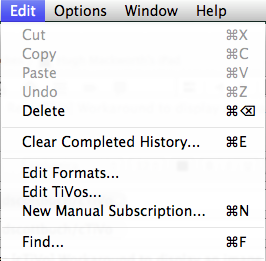
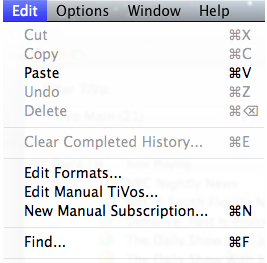
Merge of FixWiki branch

Changed region(s): [[0.0, 0.0, 1.0, 1.0], [0.8421, 0.7663, 0.9624, 0.8276]]

diff --git a/wiki/Advanced-Topics.md b/wiki/Advanced-Topics.md
@@ -5,39 +5,22 @@ This document is to cover some interesting topics that are intended for advanced
 
 Sections:  
 
-- [Artwork](#artwork)
 - [Manual TiVos](#manual-tivos)
 - [Edit Formats](#edit=formats)
+- [Artwork](#artwork)
 - [Advanced Settings](#advanced-settings)
 - [theTVDB](#thetvdb)
 - [Advanced Subscriptions ](#advanced-subscriptions)
 - [Log Files ](#log-files)
 - [Filename Templates](#filename-templates)
 
-# Artwork
-
-For MPEG files (.MPG, .MP4, .MOV, or .M4V), cTivo can embed a still picture inside the file to represent it in iTunes, iOS devices, or other players that understand this standard. By default, this picture is one of the first frames of the video, but you have many choices available. First, in Preferences, you can specify that all videos should have the same cTiVo icon, representing that it came from your TiVo. Secondly, in Preferences, you can enable cTiVo retrieving fan-generated, episode-specific artwork from theTVDB.com (although this is dependent on the series/episode being in the database). See [theTVDB](#thetvdb) below for more information. Third, you can create a "thumbnails" directory in your download folder containing artwork that is added to episodes as they are generated. These files can be in almost any format supported by the OS, but the filename has to be in a specific syntax.
-
-The filename must start with the series title (e.g. "The Daily Show with Jon Stewart") with any slashes or colons replaced with dashes. Then you can create a series-generic file (no suffix), a season-specific file (suffix of Snn, or an episode-specific file (suffix of SnnEnn). 
-
-These local files can be stored in the download directory itself or in a "thumbnails" subdirectory of the download directory. If you have enabled series-specific subdirectories within the download directory, they can also be in that directory, or in a "thumbnails" subdirectory of that subdirectory. 
-
-To give as much control to you as possible, if more than one of these artwork types are available, it will use the first one it finds in the following order:
-
-- Local episode-specific (SnnEnn)
-- theTVDB artwork (if enabled and available)
-- Local season-specific (S00)
-- Local series-generic
-- cTiVo icon (if enabled)
-- Initial frame from video
-
 # Manual TiVos
 
-Normally, cTiVo discovers TiVos on the local network automatically using a network technology called BonJour. Normally this will work fine, but if you need to enter a TiVo address manually or wish to access your TiVos remotely, you'll need to enter their information here. Simply use the Edit>Edit TiVos menu item. This will show any TiVos you've previously entered. Use the + button to add a new one, or the - button to delete one. If you'd like to temporarily delete one, just uncheck the "Enabled" button. You can get the TiVo's current local IP address from its Networks and Settings screen, although this may change over time, especially when your TiVo is restarted. For the local network, you should always use the ports provided (80/443). You can also disable any BonJour TiVos you don't want to interact with here as well, or change their Media Keys if needed.
+Normally, cTiVo discovers TiVos on the local network automatically using a network technology called BonJour. Normally this will work fine, but if you need to enter a TiVo address manually or wish to access your TiVos remotely, you'll need to enter their information here. Simply use the Edit>Edit Manual TiVos menu item. This will show any TiVos you've previously entered. Use the + button to add a new one, or the - button to delete one. If you'd like to temporarily delete one, just uncheck the "Enabled" button. You can get the TiVo's current local IP address from its Networks and Settings screen, although this may change over time, especially when your TiVo is restarted. For the local network, you should always use the ports provided (80/443)
 
 ![](Images/cTiVoManualTivosScreen.png)
 
-Interestingly, you may also be able to use cTiVo remotely, although this can take considerable network ability and patience.  Patience both in the sense of trial and error as well as in the upload bandwidth available on your connection to the Internet. You will need to set your router to pass external accesses to your main IP address through to your TiVo. As you may be doing this for other devices as well, we also let you adjust the ports cTiVo uses to match whatever port mapping you're doing in your router.  If you didn't understand this paragraph so far, then you probably need to find someone that does to help you. Note that whether this violates your terms of service with your cable company, TiVo Inc, your internet provider, any random film studio in Hollywood, or anybody else is entirely up to you. 
+Interestingly, you may also be able to use cTiVo remotely, although this can take considerable network ability and patience.  Patience both in the sense of trial and error as well as in the upload bandwidth available on your connection to the Internet. You will need to set your router to pass external accesses to your main IP address through to your TiVo. As you may be doing this for other devices as well, we also let you adjust the ports cTiVo uses to match whatever port mapping you're doing in your router.  If you didn't understand this paragraph so far, then you probably shouldn't be doing this. Note that whether this violates your terms of service with your cable company, TiVo Inc, your internet provider, any random film studio in Hollywood, or anybody else is entirely up to you. 
 
 # Edit Formats
 
@@ -55,14 +38,14 @@ If you'd like to configure a different video encoder, or provide different param
 - **Input Filename/Output Filename/Edit List Switch:** these are passed in the command line to the encoder (see [Arguments](#arguments)
 - **Encoder to Use**: See [Encoder To Use](#encoder-to-use)
 - **Regex for Encoder Log**: If the encoder cannot support simultaneous encoding (e.g. HandBrakeCLI), the encoder should provide in its standard output the percentage complete as a number from 0-100.  You will need to provide a regex expression for extracting this number from the last few lines of the standard output.  For example, HandBrakeCLI writes its progress as 87 %, so the regex is `([\%` This will only be used when doing sequential downloading, decrypting, and encoding.  When doing simultaneous encoding, the data flow through the pipes is used to measure progress.
-- **Video/Audio/Other Options for Encoder:** These are passed on the command line to the encoder; see [Arguments](#arguments).
+- **Video/Audio/Other Options for Encoder:** These are passed on the command line to the encoder; see [Arguments](arguments).
 - **Comskip Options**: ComSkip is an experimental feature for cTiVo; See [the comskip project](http://www.kaashoek.com/comskip/). Included in this implementation is a configuration file (comskip.ini), which can be found on the [cTivo  source code page](../cTiVo/comskip.ini). In addition to other command line parameters, you can replace the built-in comskip.ini with your own comskip.ini file by entering "--ini=\<full path\>/comskip.ini" providing the full path to your own file.
 - **ccExtractor Options**: ccExtractor exports subtitles from the video stream into a .srt text file. See  [the ccExtractor project](http://ccextractor.sourceforge.net/using-ccextractor/command-line-usage.html)
 - **Can run download and encode at same time** should be set only if the encoder can run as a final stage of a pipeline (stdin being the source pipe).
 
-- **Can be added to iTunes** means that the file format generated is compatible with iTunes, and will simply enable or disable that option for the user.
+ - **Can be added to iTunes** means that the file format generated is compatible with iTunes, and will simply enable or disable that option for the user.
 
-- **Can Skip Commercials** means whether to enable that option for the user. If enabled, the encoder must handle the edl as generated by comSkip.
+ - **Can Skip Commercials** means whether to enable that option for the user. If enabled, the encoder must handle the edl as generated by comSkip.
 
 ## Encoder to Use
 
@@ -105,49 +88,64 @@ OR, if no outputFileFlag:
 ```` 
 If you are debugging a format, you can use the advance preferences to increase the debugging level. See [Log Files](#log-files) below for more information. You can also set the "Don't Delete tmp files" option, which will save the subsidiary program log files (from your encoder, comskip, etc) for your perusal. Be sure to set it back when finished debugging as it will generate massive temp files.
 
+# Artwork
+
+For MPEG files (.MPG, .MP4, .MOV, or .M4V), cTivo can embed a still picture inside the file to represent it in iTunes, iOS devices, or other players that understand this standard. By default, this picture is one of the first frames of the video, but you have many choices available. First, in Preferences, you can specify that all videos should have the same cTiVo icon, representing that it came from your TiVo. Secondly, in Preferences, you can enable cTiVo retrieving fan-generated, episode-specific artwork from theTVDB.com (although this is dependent on the series/episode being in the database). Third, you can create a "thumbnails" directory in your download folder containing artwork that is added to episodes as they are generated. These files can be in almost any format supported by the OS, but the filename has to be in a specific syntax.
+
+The filename must start with the series title (e.g. "The Daily Show with Jon Stewart") with any slashes or colons replaced with dashes. Then you can create a series-generic file (no suffix), a season-specific file (suffix of Snn, or an episode-specific file (suffix of SnnEnn). 
+
+These local files can be stored in the download directory itself or in a "thumbnails" subdirectory of the download directory. If you have enabled series-specific subdirectories within the download directory, they can also be in that directory, or in a "thumbnails" subdirectory of that subdirectory. 
+To give as much control to you as possible, if more than one of these artwork types are available, it will use the first one it finds in the following order:
+
+- Local episode-specific (SnnEnn)
+- theTVDB artwork (if enabled and available)
+- Local season-specific (S00)
+- Local series-generic
+- cTiVo icon (if enabled)
+- Initial frame from video
+
 # Advanced Settings
 
 There are a few preferences that are intended for debugging purposes or for very advanced users only. These are hidden, but can be activated by holding down the Option key while pulling down the cTiVo menu and selecting Adv Preferences (alternatively Option-Cmd-Comma). 
 
 ![](Images/cTivoAdvancedPreferencesScreen.png)
 
-### Debug Levels
+## Debug Levels
+
 This will increase the level of detail written to the Console log from major events to verbose. As "verbose" is indeed very verbose, you can also set the debug level separately for each of the major modules in the program. This would mainly be of use while reading the source code or under the direction of someone helping you debug a problem. 
 
-### Disable Drag to Select in UI
+## Disable Drag to Select in UI
+
 OSX has an inconsistency of what "click on a filename and drag across multiple files" means.  This can either mean "drag the first file", or "select multiple files". Our default is the latter, but you can change it with this option.
 
-### Don't Delete tmp Files
+## Don't Delete tmp Files
+
 During its processing, cTiVo creates several intermediate files, which are deleted upon completion. The video files are typically in the download directory, and the others (sub-program log files, etc) are in the /tmp/cTiVo/ directory. For debugging purposes, this option lets you turn off the automatic deletion. Setting this option can burn up your hard drive very quickly, so be sure to disable after debugging.
 
-### Download Retries
+## Download Retries
+
 If cTivo encounters a failure (network not available, encoder problem, etc), it will retry automatically. This option lets you change the number of times it retries before giving up entirely; default is 3.
 
-### Don't use memory buffer for downloads
+## Don't use memory buffer for downloads
+
 For performance reasons, cTiVo will normally download the TiVo file into memory rather than writing it to a temporary file. Sometimes for debugging purposes, it's convenient to have it write these files directly to disk, and this option enables that.
 
-### TiVo Refresh Rate
+## TiVo Refresh Rate
+
 How often (in minutes) should cTivo check the Now Playing list of your TiVos
 
-### Temporary Files Directory
+## Temporary Files Directory
 While the video files are stored in the download directory, during processing many other files are stored in a working directory. By default this is in /tmp/ctivo, and is emptied as each transaction is finished and when cTivo starts up. You can change this directory here.
 
-###Filename Template
-See [Filename Templates](#filename-templates) for more information.
+## View TVDB Stats
 
-### Keywords
-This control will insert keywords into the Filename Template field to make it easier to build.
+Displays the results of theTVDB lookups since cTiVo has started, or since an Empty Cache command. See [below for more on interpreting this information.
 
-### View TVDB Stats
-Displays the results of theTVDB lookups since cTiVo has started, or since an Empty Cache command. See [theTVDB](#thetvdb) below for more on interpreting this information.
+## Empty Cache
 
-### Empty Cache
-Empty Cache erases the caches stored in the program and reloads the information contained. The two caches are theTVDB information and the detailed XML loaded from the !TiVo for each show. If you think something is wrong with the information being displayed, this might be useful, but more important is to reset theTVDB statistics to go directly to the source. See [theTVDB](#thetvdb) below for more information.
+Empty Cache erases the caches stored in the program and reloads the information contained. The two caches are theTVDB information and the detailed XML loaded from the !TiVo for each show. If you think something is wrong with the information being displayed this might be useful, but more important is to reset theTVDB statistics to go directly to the source. See [theTVDB](theTVDB]) below for more information.
 
-### Module Debug Levels
-The remaining controls let you set debug levels for each individual module.  
-
-# TheTVDB
+## TheTVDB
 
 For some reason, TiVo has recently not been filling in the season/episode information on many shows. Oddly, this information may be available in the user interface, but not delivered to cTiVo. We attempt to work around this by accessing theTVDB.com and looking up an episode to fill in the season/episode information or to get access to the fan-generated artwork available there. Fair warning: the following paragraphs on how this all works may be more information that you want!
 
@@ -323,7 +321,7 @@ And you can put these together:
 	==>`The Big Bang Theory/Season 07/The Big Bang Theory - S07E01 - The Hofstadter Insufficiency.mp4`
 	==>`Movies/Machete (2010)`
 
-###A few final notes on filename templates
+##A couple of final notes:
 * Capitalization is irrelevant in keywords. 
 * Quotes are not allowed inside quotes.
 * Brackets cannot be used as text.

diff --git a/wiki/Configuration.md b/wiki/Configuration.md
@@ -8,7 +8,6 @@ The two most important configuration parameters are on top of the screen: the vi
 ## Options
 
 In addition to the Format/Download directory choices above, you can set many other options. The "Options" menu lets you set many of the download parameters quickly. These can also be set in the "Preferences" screen. Note that these options apply to any new downloads/subscriptions, but once it's in the queue, or subscribed, you can change these options and not affect ones in progress.
-
 ![](Images/cTiVoOptionsMenu.png)
 
 These are grouped in two main groups: the Recording/Metadata handling options which apply to each individual download and the General settings that apply to the entire program:
@@ -16,28 +15,25 @@ These are grouped in two main groups: the Recording/Metadata handling options wh
 ### Recordings Preferences
 
 These are options that affect the individual downloads. Each of these can also be set/changed for each individual download or subscription
-- **Mark Commercials** means after downloading, run a program called "comskip" that attempts to find commercials in your shows. This process is dependent on a wide variety of parameters, so some find this a great feature, some find it frustrating as it may miss some commercials . Note that the current version of comskip can also fail entirely on certain recordings; when this happens, cTiVo will provide an alert, but continue other processing of the download. Rather than deleting commericals (like Skip Commercials below), Marking will instead add chapter information to your shows, so that you can easily skip over commercials in your player. Thus if comskip makes a mistake, you can simply back up. Also, marking commercials can be done in conjunction with any encoder, as long as output file type is MPEG-compatible (.MPG, .MP4, .MOV, or .M4V). Enabling this option will automatically disable Skip Commercials.
-- **Skip Commercials** also uses comskip, but it will remove the marked commercials entirely. However, if comskip makes a mistake, this may even delete program material. Note also that skipping commercials can only be done with the "mencoder" encoder. Enabling this option will automatically disable Mark Commercials. More information at [comskip's website](http://www.kaashoek.com/comskip).
-- **Add to iTunes When Complete** will launch iTunes and add the video and its metadata to your library. See [Subscriptions](Subscriptions.md) for more information on settting this up.
-
+- **Skip Commercials** means after downloading, run a program called "comskip" that attempts to remove commercials from your shows. This process is dependent on a wide variety of parameters, so some find this a great feature, some find it frustrating as it may miss some commercials or even delete program material accidentally. Note that the current version of comskip can also fail entirely on certain recordings; when this happens, cTiVo will provide an alert, but continue other processing of the download. Note also that skipping commercials can only be done with the "mencoder" encoder. More information at [comskip's website](http://www.kaashoek.com/comskip).
+- **Mark Commercials** still uses comskip, but will instead add chapter information to your shows, so that you can easily skip over commercials in your player. Thus if comskip makes a mistake, you can simply back up. Also, marking commercials can be done in conjunction with any encoder, as long as output file type is MPEG-compatible (.MPG, .MP4, .MOV, or .M4V). Enabling this option will automatically disable Skip Commercials and vice-versa.
+- **Add to iTunes When Complete** will launch iTunes and add the video and its metadata to your library. See [Subscriptions](Subscriptions.md) for more information.
 ### Metadata Handling Preferences
 
 Metadata is the information that TiVo provides about the video, such as Series name, episode number, recording date, etc. cTiVo can deliver that information in a variety of ways depending on what you would like to then do with it. Again, each of these can be set/changed for each individual download or subscription.
 - **Export Subtitles** (*Handle Captions* in Preferences) extracts any captions or subtitles from the video file before encoding and stores them in a standard .SRT format. If the output file is MPEG-compatible, it will also store them inside the file for a viewer to use.
 - **Export Metadata to pyTivo** will save the metadata in a .TXT as defined by the [pyTiVo program](http://pytivo.sourceforge.net/wiki/index.php/PyTivo) (which lets your Mac act as a TiVo server over the network). This allows the information to go on a round-trip to your TiVo.
-
 ### General Settings
 
-The followiing are preferences that apply to the operation of the entire program, not individual downloads. These are also available in the Preferences screen.
+These are the preferences that apply to the operation of the entire program, not individual downloads. These are also available in the Preferences screen.
 - **Disable sleep** does what it says. It will attempt to delay the Mac's sleep until processing is complete. It is strongly recommended not to use this option while on battery power. Note that it will not override a "hard sleep", such as low power or closing the lid on a MacBook.
 - **Show Protected Shows** will display those shows that are marked as "copy-protected" on the TiVo. See [I have shows on my TiVo that are not listed on cTiVo!](FAQ) These shows cannot be downloaded, but for completeness, you may see them if you wish.
 - **Show TiVo Suggestions** TiVos will record shows that it thinks you may like. This option lets you see, or not see, those shows as you wish. Note that each subscription also has the same option.
 - **Create Sub-folders for Series** will create separate named folders within your Download Folder for each series you download or subscribe to.
 - **Sync iTunes Devices** will ask iTunes to start a device sync after cTivo has loaded a new show. If your devices are set to automatically load the latest videos, this will ensure that your shows are available on your devices as soon as possible.
-
 ### Settings in Preferences screen
 
-![](Images/cTivoPreferencesScreen.png)
+![](Images/cTivoAdvancedPreferencesScreen.png)
 
 These are in addition to the ones that are also in the Options menu above.
 - **Warn if Quitting during download** is just a user preference. Some folks don't like warning messages when quitting. However, if you quit during a download or encoding, you will lose any work done on that download, and cTiVo will have to restart the job when it is next run. If you enable the warning, we will give you the option to finish the current job before then quitting.
@@ -46,12 +42,10 @@ These are in addition to the ones that are also in the Options menu above.
 - **Delete file after copying into iTunes** If you have enabled "Add to iTunes When Completed", and iTunes is set to copy files into its own directory, then cTiVo will normally delete the duplicate file unless you clear this option.
 - **Use cTiVo logo for video file** cTiVo can attach an image to represent the video file. Normally a random frame near the beginning of the program is chosen; if you'd like all your TiVo video files to have the same icon, you can set this setting.
 - **Get artwork from TheTVDB** will attempt to download episode-specific images chosen by fans on TheTVDB website for the shows you are downloading. If you'd rather use series or season-specific artwork, see [Advanced Topics](Advanced-Topics.md#Artwork).
-
 ## Available Columns
 
 By right-clicking onto the column headers of the three tables, you can hide or show any information you like. Clicking on a column header will sort the table by that column.  Here's a list of the available columns:
-
-### Now Playing Columns
+## Now Playing Columns
 
 - **TiVo**:  Which TiVo this show is recorded on.
 - **Que'd**: Whether this show is currently in the download table. (Note that shows are boldfaced if the successfully downloaded video file is still available on the drive).
@@ -71,7 +65,7 @@ By right-clicking onto the column headers of the three tables, you can hide or s
 - **TiVo ID**: a unique number for each show that identifies it to the TiVo.
 - **Status**: The TiVo icons that indicate how soon a show will be deleted. Will also show the TiVo logo for suggested shows, a red C for copy-protected, a blue ? when cTivo doesn't know the status yet, or a red X when the show has been deleted from the TiVo.
 
-### Download Table Columns
+## Download Table Columns
 
 (Many of the Now Playing columns are also available here to identify which show is being downloaded)
 - **##**: The position in the download queue. Shows with smaller numbers are downloaded first, although two TiVos can download simultaneously.
@@ -82,8 +76,7 @@ By right-clicking onto the column headers of the three tables, you can hide or s
 - **Skip**: Will this show have its commercials removed?
 - **Subtitles**: Should cTiVo generate subtitles for this show?
 - **pyTiVo**: Will this show have its metadata exported for use by pyTiVo?
-
-### Subscription Table Columns
+## Subscription Table Columns
 
 In addition to the Format/iTunes/Mark/Skp/Subtitles/pyTivo columns as above (which are simply copied into the download table item when a subscription is triggered), the subscription table has the following columns:
 - **Subscriptions**: The show name subscribed to.

diff --git a/wiki/FAQ.md b/wiki/FAQ.md
@@ -16,21 +16,19 @@ Some formats are not intended for playing on your computer, and Quicktime is una
    See Edit Video Formats in [Advanced Topics](Advanced-Topics.md) 
 ###What does the column "Tivo Status" mean?
 These are the icons displayed by TiVo on its NowPlaying status along with a couple we've added for clarity. 
-<!-- The following should use Markdown img refs ()[Images/xyz.png], but github has an odd bug -->
-<!-- Same with **; no markdown interp in cells, at least sometimes. -->
 <table>
-    <tr> <td><img src="Images/in-progress-recording.png" alt= ""/></td><td>Recording Now</td></tr>
-    <tr> <td><img src="Images/save-until-i-delete-recording.png" alt-""/></td><td>Save until I delete</td></tr>
-    <tr> <td><img src="Images/recent-recording.png" alt-""/></td><td>Recently recorded **</td></tr>
-    <tr> <td><img src="Images/expires-soon-recording.png" alt-""/></td><td>Expires Soon</td></tr>
-    <tr> <td><img src="Images/expired-recording.png" alt-""/></td><td>Expired</td></tr>
-    <tr> <td><img src="Images/deleted.png" alt-""/></td><td>Deleted at TiVo **</td></tr>
-    <tr> <td><img src="Images/suggestion-recording.png" alt-""/></td><td>TiVo Suggestion</td></tr>
-    <tr> <td><img src="Images/copyright.png" alt-""/></td><td>Copying prevented **</td></tr>
-    <tr> <td><img src="Images/status-unknown.png" alt-""/></td><td>Status Not Loaded Yet ** </td></tr>
+    <tr> <td>![](Images/in-progress-recording.png)</td><td>Recording Now</td></tr>
+    <tr> <td>![](Images/save-until-i-delete-recording.png)</td><td>Save until Deleted</td></tr>
+    <tr> <td>![](Images/recent-recording.png)</td><td>Recently recorded `*`</td></tr>
+    <tr> <td>![](Images/expires-soon-recording.png)</td><td>Expires Soon</td></tr>
+    <tr> <td>![](Images/expired-recording.png)</td><td>Expired</td></tr>
+    <tr> <td>![](Images/deleted.png)</td><td>Deleted at TiVo `*`</td></tr>
+    <tr> <td>![](Images/suggestion-recording.png)</td><td>TiVo Suggestion</td></tr>
+    <tr> <td>![](Images/copyright.png)</td><td>Copying prevented `*`</td></tr>
+    <tr> <td>![](Images/status-unknown.png)</td><td>Status Not Loaded Yet `*` </td></tr>
 </table>
 
-** = Ones we've added 
+`*` = Ones we've added 
 
 ###Is it supposed to be this slow?
  First, yes. Video files are huge, especially HD.
@@ -43,27 +41,15 @@ Several things affect the speed of the download:
 - The processing speed of your computer. Your CPU is used to convert the movies once they get to the computer.
 - Format you are converting to. Higher-resolution, higher-quality formats take more processing power from your computer.
 
-To give you an estimate over a wired connection, from a TiVo HD (aka Series3), converting to iPhone, you might see a 1.8MBps connection and get a 3.0-gigabyte 30-minute show in about 30 mins. Use those settings as a starting point. If you're seeing MUCH worse times, then something is wrong. You can see the speed of your network connection by running Activity Monitor (Applications>Utilities>Activity Monitor>Network tab).
+To give you an estimate over a wired connection, from a TiVo HD (aka Series3), converting to iPhone simultaneous encode, you might see a 1.8MBps connection and get a 3.0-gigabyte 30-minute show in about 30  mins. Use those settings as a starting point. If you're seeing MUCH worse times, then something is wrong. You can see the speed of your network connection by running Activity Monitor (Applications>Utilities>Activity Monitor>Network tab).
 ###What should I do if I need it to download faster?
-   With today's processors, you'll probably be encoding as fast as you can download. On slower machines, if you're ok with using up more hard drive space, you might probably select the 'Decrypted TiVo Show' format. Then install [MPlayer](http://www.mplayerosx.ch]) or [VLC](http://www.videolan.org/vlc/index.html) to view the downloaded movie. It will download as fast as the TiVo will allow, and do no conversion whatsoever.
+   With today's processors, you'll probably be encoding as fast as you can download. On slower machines, if you're ok with using up more hard drive space, you might probably select the 'Decrypted TiVo Show' format. Then  install [http://www.mplayerosx.ch MPlayer OSX Extended](https://ctivo.googlecode.com/svn/trunk/cTiVo/questionmark.png])  or [VLC](http://www.videolan.org/vlc/index.html) to view the downloaded movie. It will download as fast as the TiVo will allow, and do no conversion whatsoever.
 ###What are the different stages that cTiVo goes through?
    Depending on the options that you've set, cTiVo goes through many different steps to prepare your video.  Note that there are resource constraints that will prevent the program from attempting all in parallel. For example, we only download one show at a time from each TiVo as trying to do more will be counterproductive. Thus a show might pause mid-way through processing until further resources are available.
   Download => Decrypt => Ads Detect => Subtitle Extraction => Video Encoding => Adding Metadata => Adding to iTunes ==> Complete 
-   We optimize to do as many of these as possible in parallel, so several of these steps may be combined into one; for example, the download might say "Downloading" until the download is complete, then say "Encoding" for a few seconds, as much of the file may already be decrypted/encoded. Shows can also be marked as "Failed" or "TiVo Deleted", meaning that the show is no longer available on the TiVo. A blank entry means that it's not been started yet (or has failed and is scheduled for automatic retry).
+   We optimize to do as many of these as possible in parallel, so several of these steps may be combined into one; for example, the download might say "Downloading" until the download is complete, then say "Encoding", even though much of the file may already be decrypted/encoded. Shows can also be marked as "Failed" or "TiVo Deleted", meaning that the show is no longer available on the TiVo. A blank entry means that it's not been started yet (or has failed and is scheduled for automatic retry).
 ###My shows aren't downloading; although I can see the list and can request a download, every show tries several times, then gives up.
 This symptom may mean that your TiVo's internal file server has crashed. It's quite delicate, and certain combinations of operations (which we try to avoid) can cause problems. Try restarting your TiVo (TiVo Central > Messages & Settings > Restart or Reset System > Restart the TiVo; doing this while recording will cancel recording) and see if the problem is fixed. If it does and yet reoccurs later, let us know.
-###How do I find/submit my logs?
-If you're having problems, you may need to review and/or submit your logs. cTiVo stores its log files in ~/Preferences/Logs/cTiVo and can be reviewed with any text editor. To compress them into a zip file to submit for an issue:
-
-To get us the logs:
-  1. Go to Preferences(Cmd-comma), 
-  2. Set Log Level to Detailed (Lower left corner). 
-  3. Run a show or shows showing the problem.  
-  4. Go to your Library (in Finder, hold down Option and click the Go menu and select Library). 
-  5. Open the Logs folder.
-  6. Select the cTiVo folder and right-Click "Compress cTiVo"; this will create a cTiVo.Zip file.
-  7. Submit that file to the issues tab with a description of the problem.
-
 ###My program crashes / I get mencoder or tivodecode errors, etc.
  The short version: sorry; let us know, and we'll try to fix it.
 The long version: cTiVo is actually a front-end for several programs written by multiple people. See the About cTivo menu item for more details. Many of these programs are not perfect, and cTiVo may have its own bugs. If you report bugs in the *Issues* tab above, we will get around to checking it out. However, the bug may be related to underlying programs which we have no control over.  One thing to always try is a different download format, or a different encoder (for example, HandBrake iPhone instead of iPhone). Comskip in particular, is very prone to crashing or failing. When this happens, we put up an error message, but we continue with the processing, simply not marking/skipping commercials.

diff --git a/wiki/Overview.md b/wiki/Overview.md
@@ -17,7 +17,7 @@ To use, just drag one or more shows from the top table to either the download or
 
 Shows will start downloading immediately; although as the shows are quite large, it can take 30-50 minutes per hour of programs downloaded. You will see a progress bar ticking away as it goes through its download/encoding stages. Note that you don't have to leave the window open; you can close it entirely, and cTiVo will keep running in the background. Just use the menu item Window>Main Window to restore the window.
 
-![](Images/cTiVoScreen.png)
+![](Images/cTivoScreen.png)
 ## Controls and Buttons
 
 - **!TiVo Name/Filter TiVo**: In the upper left corner is the name of your TiVo, or if you have more than one, a list of them. The default is to display all shows from all TiVos, but if you wish to see only one at a time, you can select it here. This control shows the number of shows available on this TiVo.
@@ -45,16 +45,12 @@ Shows will start downloading immediately; although as the shows are quite large,
 - **File>Pause/Resume Queue** will pause or resume further processing of the queue. A big red "Paused" will appear when the queue is not running to warn you that nothing is currently happening. If any show is active, you will have the choice of finishing the current job, or stopping it immediately for later restart. You'll get the same choice upon Quitting as well.
 - **File>Refresh TiVo** lets you immediately reload the show list from the TiVo to see if there's any new ones. (Otherwise, it's on a 15-minute refresh rate). If you have more than one, you can refresh all or just one.
 - **File>Import/Export Formats** lets you create a small text file describing your custom format. This can be used to share formats with others.
-
 ![](Images/cTiVoEditMenu.png)
 - **Edit>Clear Completed History** (Cmd-E) will remove the records for all completed downloads from your download table, successful or not.
 - **Edit>Edit Formats** is for advanced users who wish to use new encoders or tune the parameters for encoders. You can also show/hide any of the factory-provided formats.
-- **Edit>Edit TiVos** lets you add/edit TiVos manually. Normally, cTiVo discovers TiVos on the local network automatically using a network technology called [Bonjour](http://www.apple.com/support/bonjour/). If you need to enter a TiVo address manually or wish to access TiVo's remotely, you'll need to enter their information here. You can also enable/disable Bonjour or manual TiVos here as well.
+- **Edit>Edit Manual TiVos** lets you add/edit TiVos manually. Normally, cTiVo discovers TiVos on the local network automatically using a network technology called [Bonjour](http://www.apple.com/support/bonjour/). If you need to enter a TiVo address manually or wish to access TiVo's remotely, you'll need to enter their information here.
 - **Edit>New Manual Subscription** (Cmd-N) lets you create a subscription by just typing the show's name. Note that it will record any show whose name contains the text you provide here. For example, House would match House, House Hunting, and Warehouse 13. (Regular subscriptions created from an existing show have to match the entire name.) In particular, you can type ALL here to download every show your TiVo subscribes to. See [Advanced Topics](Advanced-Topics.md) for more information.
 - **Edit>Find** shows/hides a Find box that lets you search the list of shows for a particular text.
-
-For information about the Option menu, see [Configuration](Configuration.md)
-
 ## Drawer contents
 
 If you double-click on a show, cTiVo will open a drawer on the side of the main table with more information that TiVo has about that show. It will only display information relevant to that show; in particular, it displays different information for movies vs TV shows. You can close the drawer with the close button on its top.

diff --git a/README.md b/README.md
@@ -1,4 +1,4 @@
-**cTiVo** is a free Mac application to download shows from your TiVo (Roamio, Premiere, HD, S3 or S2 devices) and convert them to many popular formats and devices. Its goal is to be extremely simple to set up and use, but very flexible. 
+**cTiVo** is a free Mac application to download shows from your TiVo (Premiere, HD, S3 or S2 devices) and convert them to many popular formats and devices. Its goal is to be extremely simple to set up and use, but very flexible. 
 
 cTiVo provides complete hands-off operation: once you choose or subscribe to your shows, everything else is automated. For example, after you've set it up, every morning, you will find all your favorite shows from your TiVos loaded onto your iPhone or iPad. And although using cTiVo is very easy, you also have complete control over what it does.
 
@@ -9,7 +9,7 @@ cTiVo is inspired by the great work done on iTiVo, but written in Cocoa/Objectiv
   * Drag/drop and contextual menus for ease of use; submit, reschedule, delete all by dragging the shows.
   * Download queue for batch processing, restored on restart.
   * 'Subscriptions' to your regular shows: automatically downloading shows whenever new episodes are available.
-  * Removes commercials from downloaded shows, or marks for quick skip in player.
+  * Removes commercials from downloaded shows, or mark for quick skip in player.
   * Extracts closed caption info, adjusted for removal of commercials; adds to MPEG and creates subtitle files.
   * Generate metadata appropriate for use by tools such as pyTivo.
   * Adds episode-specific artwork from theTVDB (if available).
@@ -31,7 +31,6 @@ cTiVo is inspired by the great work done on iTiVo, but written in Cocoa/Objectiv
   * Options to prevent sleep or quitting until processing complete.
   * Access remote TiVos (requires network reconfiguration).
   * Folders optionally created for each series.
-  * Filename Template for integration with your media system.
 
 ##Information About Your Shows
   * Customizable columns about shows, downloads and subscriptions; show exactly what you want to see and no more.

diff --git a/wiki/Subscriptions.md b/wiki/Subscriptions.md
@@ -13,7 +13,7 @@ With 2.1, subscriptions now operate correctly across multiple TiVos. We use the 
 
 ## Manual subscriptions
 
-You can also enter the name of a series without having a sample episode. Just go to Edit>New Manual Subscription (Cmd-N) and type the name of the series. This also allows you to match multiple series. So if you like House Hunters International as well as House Hunters, you can just put in House Hunters and any show with that exact text in its series name will be recorded. As an interesting option, you can simply enter ALL here to subscribe to all shows recorded by your TiVo. Finally, if you know what "regular expressions" means, and wish to control your subscriptions beyond this simple description, see [Advanced Subscriptions](Advanced-Topics.md#advanced-subscriptions)
+You can also enter the name of a series without having a sample episode. Just go to Edit>New Manual Subscription (Cmd-N) and type the name of the series. This also allows you to match multiple series. So if you like House Hunters International as well as House Hunters, you can just put in House Hunters and any show with that exact text in its series name will be recorded. As an interesting option, you can simply enter ALL here to subscribe to all shows recorded by your TiVo. Finally, if you know what "regular expressions" means, and wish to control your subscriptions beyond this simple description, see [Advanced Subscriptions](AdvancedTopics#Advanced_Subscriptions)
 
 ## Limiting subscriptions
 
